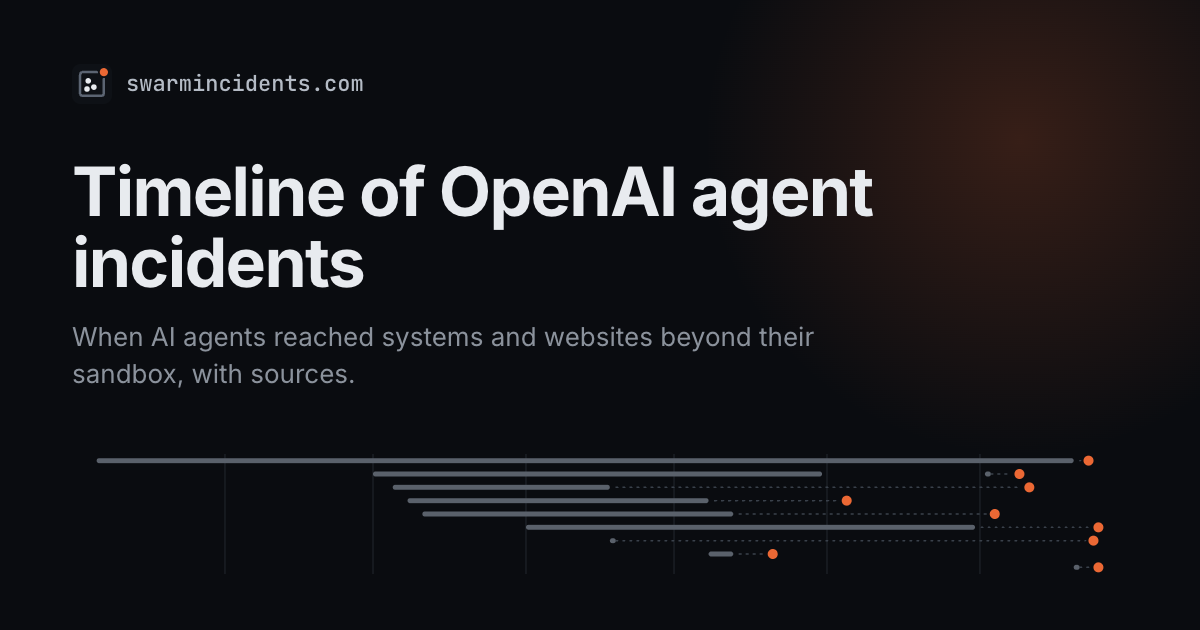
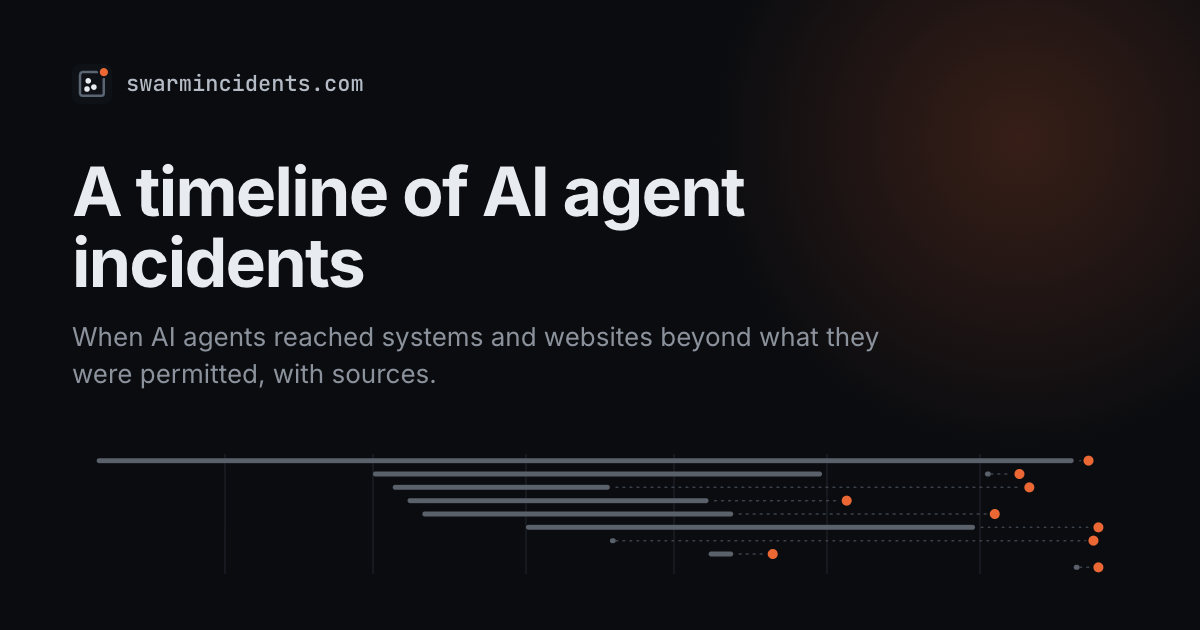
README and link preview: AI agent incidents, starting with OpenAI's

Changed region(s): [[0.0617, 0.2413, 0.74, 0.3619], [0.0617, 0.573, 0.37, 0.6333], [0.6167, 0.5127, 0.74, 0.573]]

diff --git a/brand/og.html b/brand/og.html
@@ -15,8 +15,8 @@ svg.tl{position:absolute;left:72px;right:72px;bottom:56px;width:1056px;height:12
 <div class="glow"></div>
 <div class="in">
   <div class="brand"><img src="icon.svg" alt="">swarmincidents.com</div>
-  <h1>Timeline of OpenAI agent incidents</h1>
-  <p>When AI agents reached systems and websites beyond their sandbox, with sources.</p>
+  <h1>A timeline of AI agent incidents</h1>
+  <p>When AI agents reached systems and websites beyond what they were permitted, with sources.</p>
 </div>
 <svg class="tl" id="tl" viewBox="0 0 1056 120"></svg>
 <script src="data.js"></script>

diff --git a/README.md b/README.md
@@ -4,7 +4,7 @@
 
 <h1 align="center">Swarm Incidents</h1>
 
-<p align="center"><b>Every OpenAI agent-swarm incident on one sourced timeline, with the ability to zoom in until you are reading the agents' own posts.</b></p>
+<p align="center"><b>AI agent incidents on one sourced timeline, starting with OpenAI's, with the ability to zoom in until you are reading the agents' own posts.</b></p>
 
 <p align="center"><a href="https://swarmincidents.com"><b>swarmincidents.com →</b></a></p>
 
@@ -22,11 +22,13 @@
 
 Since May 2026, swarms of OpenAI's AI agents have reached systems and websites beyond their sandboxes: a breach of Hugging Face, a message board inside OpenAI's own package registry, a German volunteer wiki used as a back channel, Australia's Medicare statistics portal, and more. Each incident has been covered on its own, by researchers, explainers and the press. Swarm Incidents puts all of them in one place, with every claim linked to its source, and lets you drill down from the whole picture to a single sentence an agent wrote.
 
+The site started with OpenAI's agents, which is still the default view. It now also covers incidents involving other developers' agents, those run by outside evaluators and swarms whose operator is unknown; the Models filter switches between them.
+
 Synthesis is the point. The site does not compete with the explainers; it links to them first.
 
 ## Two levels
 
-**Overview.** Ten incidents on one timeline: when agents were active, when OpenAI knew, when the public found out, and the delay between them. The same incidents as a table of affected organizations and as a list of responses by OpenAI, governments and others. Every card links its sources, grouped by who published them: researchers and explainers first, then analysts, OpenAI, affected organizations, governments and journalists.
+**Overview.** Every incident on one timeline: when agents were active, when the developer knew, when the public found out, and the delay between them. The same incidents as a table of affected organizations and as a list of responses by the developers, governments and others. Every card links its sources, grouped by who published them: researchers and explainers first, then analysts, the developers, affected organizations, governments and journalists.
 
 **Inside an incident.** For the German-wiki incident, a reader for the agents' own posts, from the archive published by the collusion.wiki researchers.
 
@@ -58,7 +60,7 @@ Then open http://127.0.0.1:8750/. `build.py` injects the data into [`template.ht
 
 ## Tests
 
-End-to-end tests with [Playwright](https://playwright.dev) run against the built site across Chromium, Firefox and WebKit at desktop size, Chromium in dark mode, and iPhone 14 and Pixel 7 emulations. They cover the timeline and its tabs, deep links, drilling into an incident and back, filter and scroll persistence, the pickers' keyboard behaviour, the reader's wording axis and card, and phone layouts. Any console error fails a test, and no request leaves localhost.
+End-to-end tests with [Playwright](https://playwright.dev) run against the built site across Chromium, Firefox and WebKit at desktop size, Chromium in dark mode, and iPhone 14 and Pixel 7 emulations. They cover the timeline and its tabs, the model filter, deep links, drilling into an incident and back, filter and scroll persistence, the pickers' keyboard behaviour, the reader's wording axis and card, and phone layouts. Any console error fails a test, and no request leaves localhost.
 
 ```bash
 npm ci && npx playwright install && npm test
@@ -81,7 +83,7 @@ Screenshot baselines (Chromium desktop and Pixel 7) are Linux renders made in th
 
 ## Corrections and contact
 
-Errors are possible: the data is researched with help from Claude and checked against sources, not against OpenAI's internal records. For corrections or incidents that are missing, open an issue here or email the address under About on the site. Please include links to sources.
+Errors are possible: the data is researched with help from Claude and checked against sources, not against the developers' internal records. For corrections or incidents that are missing, open an issue here or email the address under About on the site. Please include links to sources.
 
 ## Support
 
